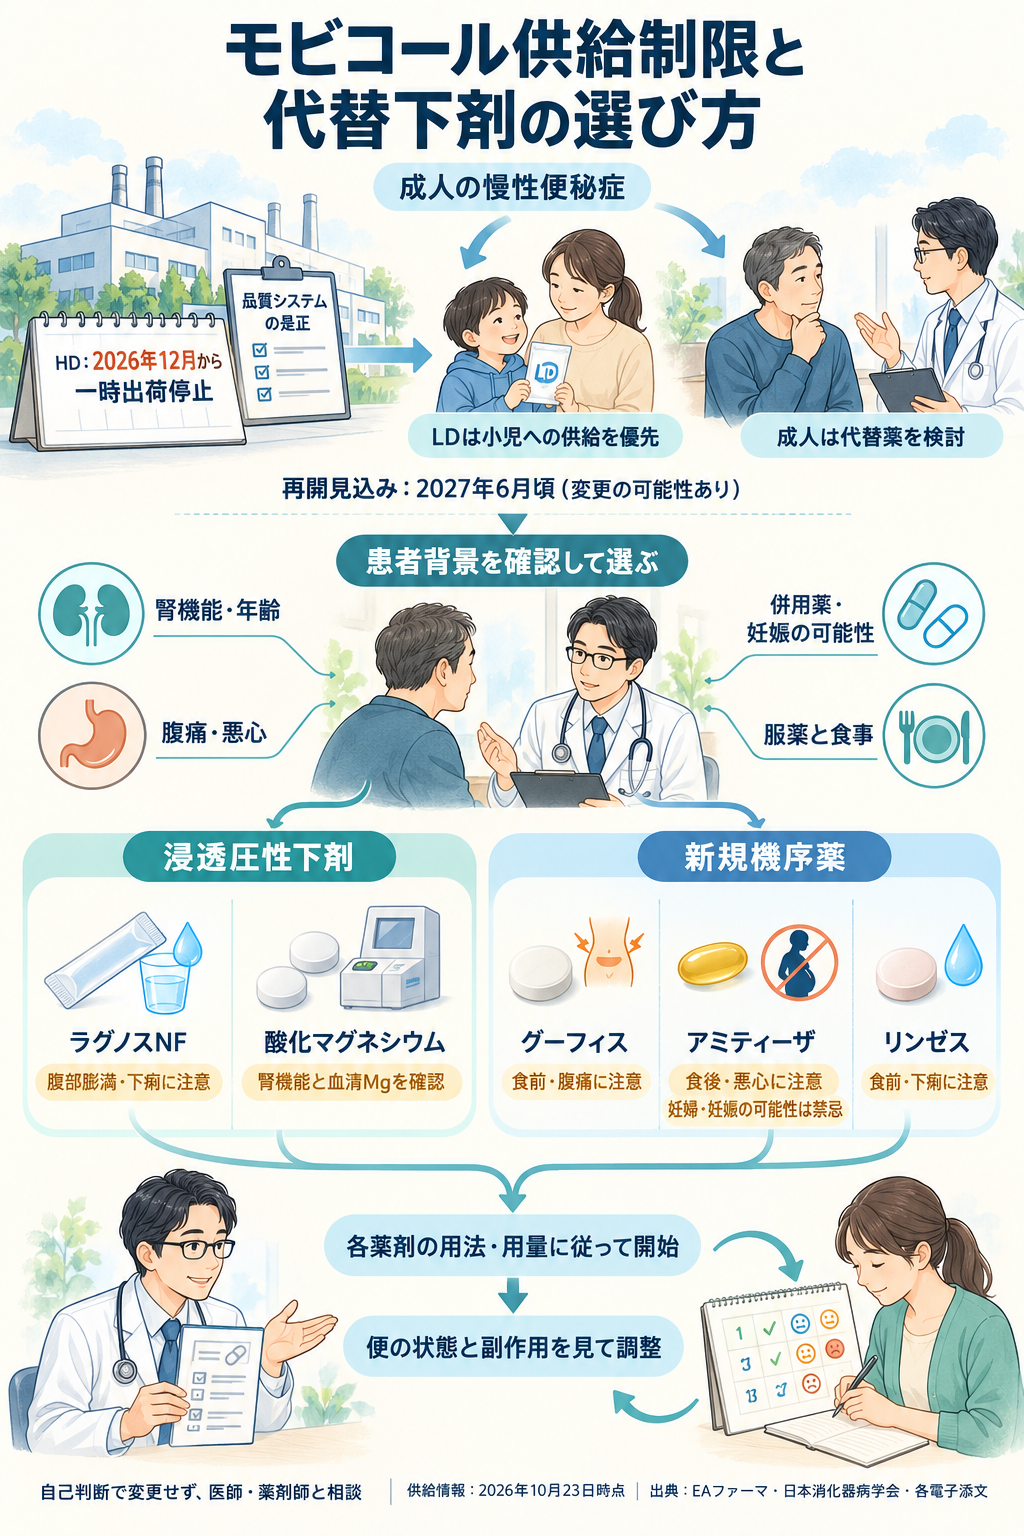
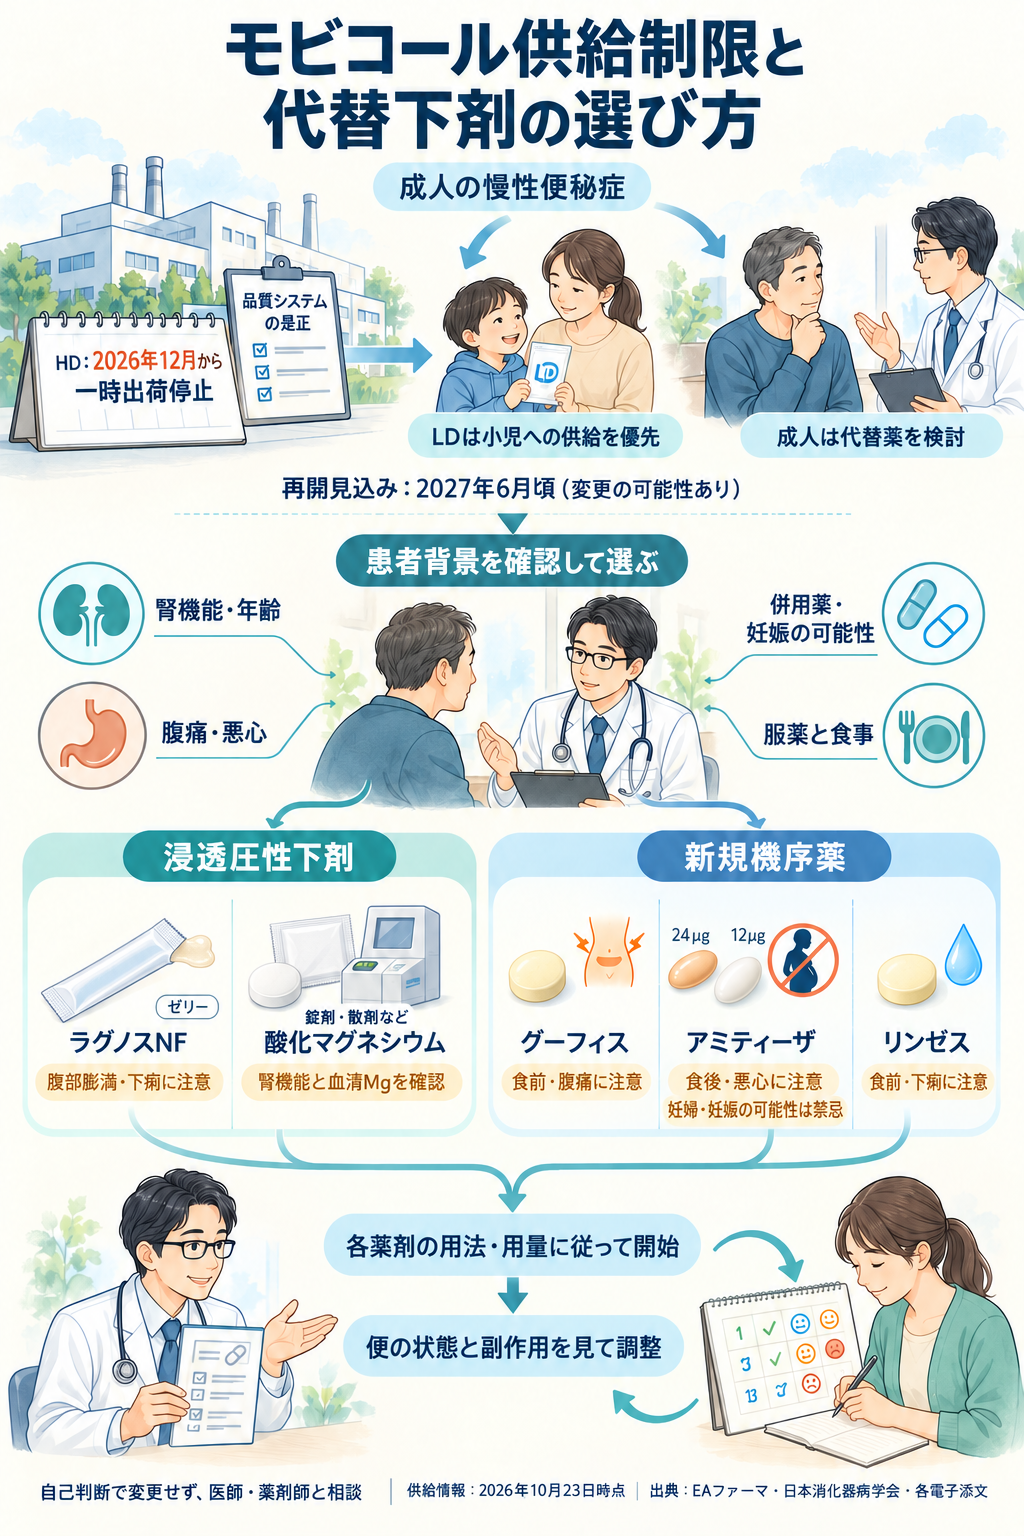
Improve movicol infographic with patient-centered visual guidance

diff --git a/infographics/movicol-supply-alternatives/index.html b/infographics/movicol-supply-alternatives/index.html
@@ -12,7 +12,7 @@
 <meta name="twitter:card" content="summary_large_image">
 <!-- /ig-meta -->
 </head><body>
-<nav data-ig-nav-v2 style="width:100%;max-width:1080px;display:flex;gap:10px;flex-wrap:wrap;align-items:center;margin:0 auto 12px;font-family:'Hiragino Kaku Gothic ProN','Yu Gothic','Segoe UI',sans-serif;"><a href="../" style="display:inline-flex;align-items:center;gap:6px;text-decoration:none;font-weight:700;font-size:14px;padding:9px 15px;border-radius:8px;background:#1A5276;color:#fff;">🖼 インフォグラフィック一覧</a><a href="https://youtu.be/gDkRjo7p69I" target="_blank" rel="noopener" style="display:inline-flex;align-items:center;gap:6px;text-decoration:none;font-weight:700;font-size:14px;padding:9px 15px;border-radius:8px;background:#C0392B;color:#fff;">▶ 解説動画（YouTube）</a><a href="infographic.png?v=20261023-gpt2" target="_blank" rel="noopener" style="display:inline-flex;align-items:center;gap:6px;text-decoration:none;font-weight:700;font-size:14px;padding:9px 15px;border-radius:8px;background:#fff;color:#1A5276;border:1px solid #cfdae6;">📥 画像版（PNG）</a></nav>
-<main><header class="hd"><h1>モビコール供給制限と代替下剤の選び方</h1><p>LDは小児優先で限定出荷・HDは2026年12月より一時出荷停止｜切替え前の確認と代替薬5剤の使い分け（医療従事者向け）</p></header><section class="sec"><a href="infographic.png?v=20261023-gpt2" title="画像のみを原寸で開く"><img src="infographic.png?v=20261023-gpt2" alt="供給制限と小児へのLD優先、成人の患者背景確認、代替下剤5剤の注意点、変更後の調整をつなぐ全体図。"></a></section><footer class="foot"><p><strong>医知創造ラボ｜監修：今村久司</strong>（滋賀県の脳神経内科医。京都大学医学部卒・医学博士。脳神経内科専門医・指導医、総合内科専門医、てんかん専門医・指導医）</p><p>内容は2026年10月23日時点のEAファーマ株式会社公式案内、日本消化器病学会周知依頼、各薬剤の電子添文、および確認文献に基づきます。医師・医療従事者向けの一般的な医学情報の整理であり、個々の患者さんの診断や治療方針は担当医の判断によります。利益相反はありません。</p><p><a href="https://blog.ichisouzo-lab.com/entry/2026/10/23/162850" target="_blank" rel="noopener">詳しい解説記事と参考文献を読む</a> ／ <a href="../../slides/movicol-supply-alternatives/">スライド全14枚・PDFを見る</a></p></footer></main>
-<nav data-ig-nav-v2 style="width:100%;max-width:1080px;display:flex;gap:10px;flex-wrap:wrap;align-items:center;margin:14px auto 0;font-family:'Hiragino Kaku Gothic ProN','Yu Gothic','Segoe UI',sans-serif;"><a href="../" style="display:inline-flex;align-items:center;gap:6px;text-decoration:none;font-weight:700;font-size:14px;padding:9px 15px;border-radius:8px;background:#1A5276;color:#fff;">🖼 インフォグラフィック一覧</a><a href="https://youtu.be/gDkRjo7p69I" target="_blank" rel="noopener" style="display:inline-flex;align-items:center;gap:6px;text-decoration:none;font-weight:700;font-size:14px;padding:9px 15px;border-radius:8px;background:#C0392B;color:#fff;">▶ 解説動画（YouTube）</a><a href="infographic.png?v=20261023-gpt2" target="_blank" rel="noopener" style="display:inline-flex;align-items:center;gap:6px;text-decoration:none;font-weight:700;font-size:14px;padding:9px 15px;border-radius:8px;background:#fff;color:#1A5276;border:1px solid #cfdae6;">📥 画像版（PNG）</a></nav>
+<nav data-ig-nav-v2 style="width:100%;max-width:1080px;display:flex;gap:10px;flex-wrap:wrap;align-items:center;margin:0 auto 12px;font-family:'Hiragino Kaku Gothic ProN','Yu Gothic','Segoe UI',sans-serif;"><a href="../" style="display:inline-flex;align-items:center;gap:6px;text-decoration:none;font-weight:700;font-size:14px;padding:9px 15px;border-radius:8px;background:#1A5276;color:#fff;">🖼 インフォグラフィック一覧</a><a href="https://youtu.be/gDkRjo7p69I" target="_blank" rel="noopener" style="display:inline-flex;align-items:center;gap:6px;text-decoration:none;font-weight:700;font-size:14px;padding:9px 15px;border-radius:8px;background:#C0392B;color:#fff;">▶ 解説動画（YouTube）</a><a href="infographic.png?v=20261023-shapes2" target="_blank" rel="noopener" style="display:inline-flex;align-items:center;gap:6px;text-decoration:none;font-weight:700;font-size:14px;padding:9px 15px;border-radius:8px;background:#fff;color:#1A5276;border:1px solid #cfdae6;">📥 画像版（PNG）</a></nav>
+<main><header class="hd"><h1>モビコール供給制限と代替下剤の選び方</h1><p>LDは小児優先で限定出荷・HDは2026年12月より一時出荷停止｜切替え前の確認と代替薬5剤の使い分け（医療従事者向け）</p></header><section class="sec"><a href="infographic.png?v=20261023-shapes2" title="画像のみを原寸で開く"><img src="infographic.png?v=20261023-shapes2" alt="供給制限と小児へのLD優先、成人の患者背景確認、代替下剤5剤の注意点、変更後の調整をつなぐ全体図。"></a></section><footer class="foot"><p><strong>医知創造ラボ｜監修：今村久司</strong>（滋賀県の脳神経内科医。京都大学医学部卒・医学博士。脳神経内科専門医・指導医、総合内科専門医、てんかん専門医・指導医）</p><p>内容は2026年10月23日時点のEAファーマ株式会社公式案内、日本消化器病学会周知依頼、各薬剤の電子添文、および確認文献に基づきます。医師・医療従事者向けの一般的な医学情報の整理であり、個々の患者さんの診断や治療方針は担当医の判断によります。利益相反はありません。</p><p><a href="https://blog.ichisouzo-lab.com/entry/2026/10/23/162850" target="_blank" rel="noopener">詳しい解説記事と参考文献を読む</a> ／ <a href="../../slides/movicol-supply-alternatives/">スライド全14枚・PDFを見る</a></p></footer></main>
+<nav data-ig-nav-v2 style="width:100%;max-width:1080px;display:flex;gap:10px;flex-wrap:wrap;align-items:center;margin:14px auto 0;font-family:'Hiragino Kaku Gothic ProN','Yu Gothic','Segoe UI',sans-serif;"><a href="../" style="display:inline-flex;align-items:center;gap:6px;text-decoration:none;font-weight:700;font-size:14px;padding:9px 15px;border-radius:8px;background:#1A5276;color:#fff;">🖼 インフォグラフィック一覧</a><a href="https://youtu.be/gDkRjo7p69I" target="_blank" rel="noopener" style="display:inline-flex;align-items:center;gap:6px;text-decoration:none;font-weight:700;font-size:14px;padding:9px 15px;border-radius:8px;background:#C0392B;color:#fff;">▶ 解説動画（YouTube）</a><a href="infographic.png?v=20261023-shapes2" target="_blank" rel="noopener" style="display:inline-flex;align-items:center;gap:6px;text-decoration:none;font-weight:700;font-size:14px;padding:9px 15px;border-radius:8px;background:#fff;color:#1A5276;border:1px solid #cfdae6;">📥 画像版（PNG）</a></nav>
 </body></html>

diff --git a/sw.js b/sw.js
@@ -1,4 +1,4 @@
-const CACHE_NAME = 'ddx-tools-v264';
+const CACHE_NAME = 'ddx-tools-v265';
 const ASSETS = [
   './infographics/alzheimers-treatment-20y-reference-repair-20261022/index.html',
   './infographics/anti-mag-neuropathy-reference-repair-20261022/index.html',
